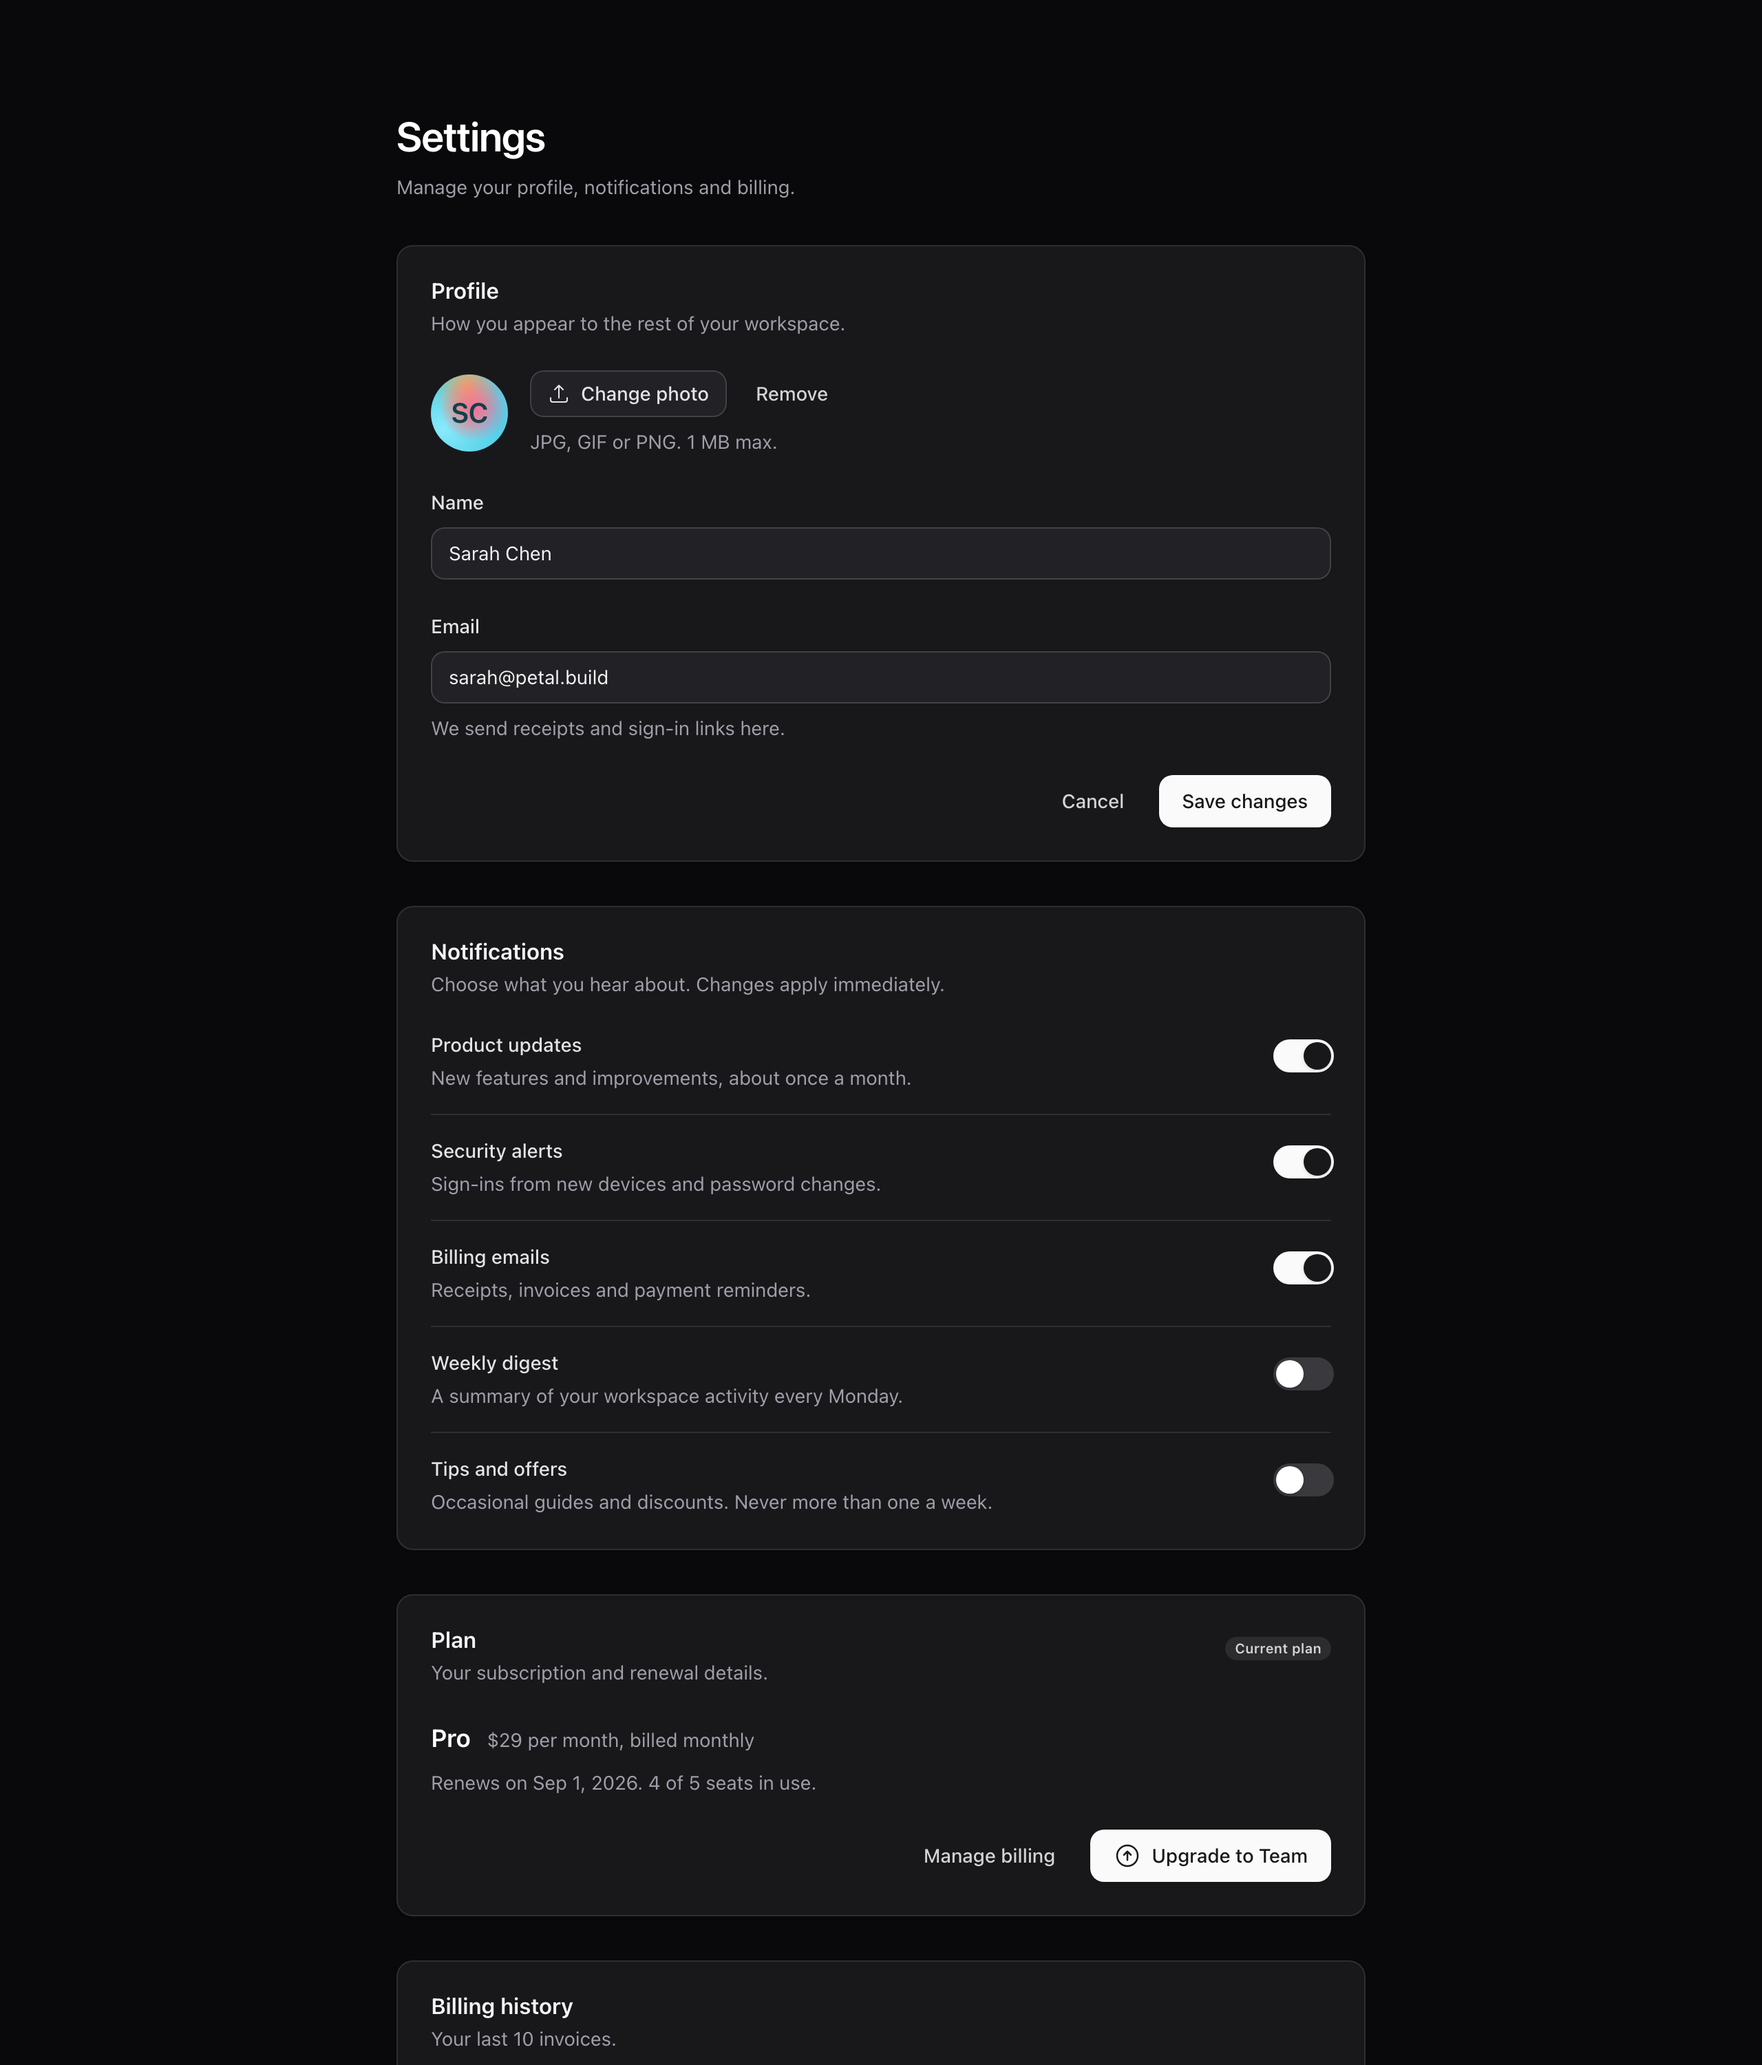
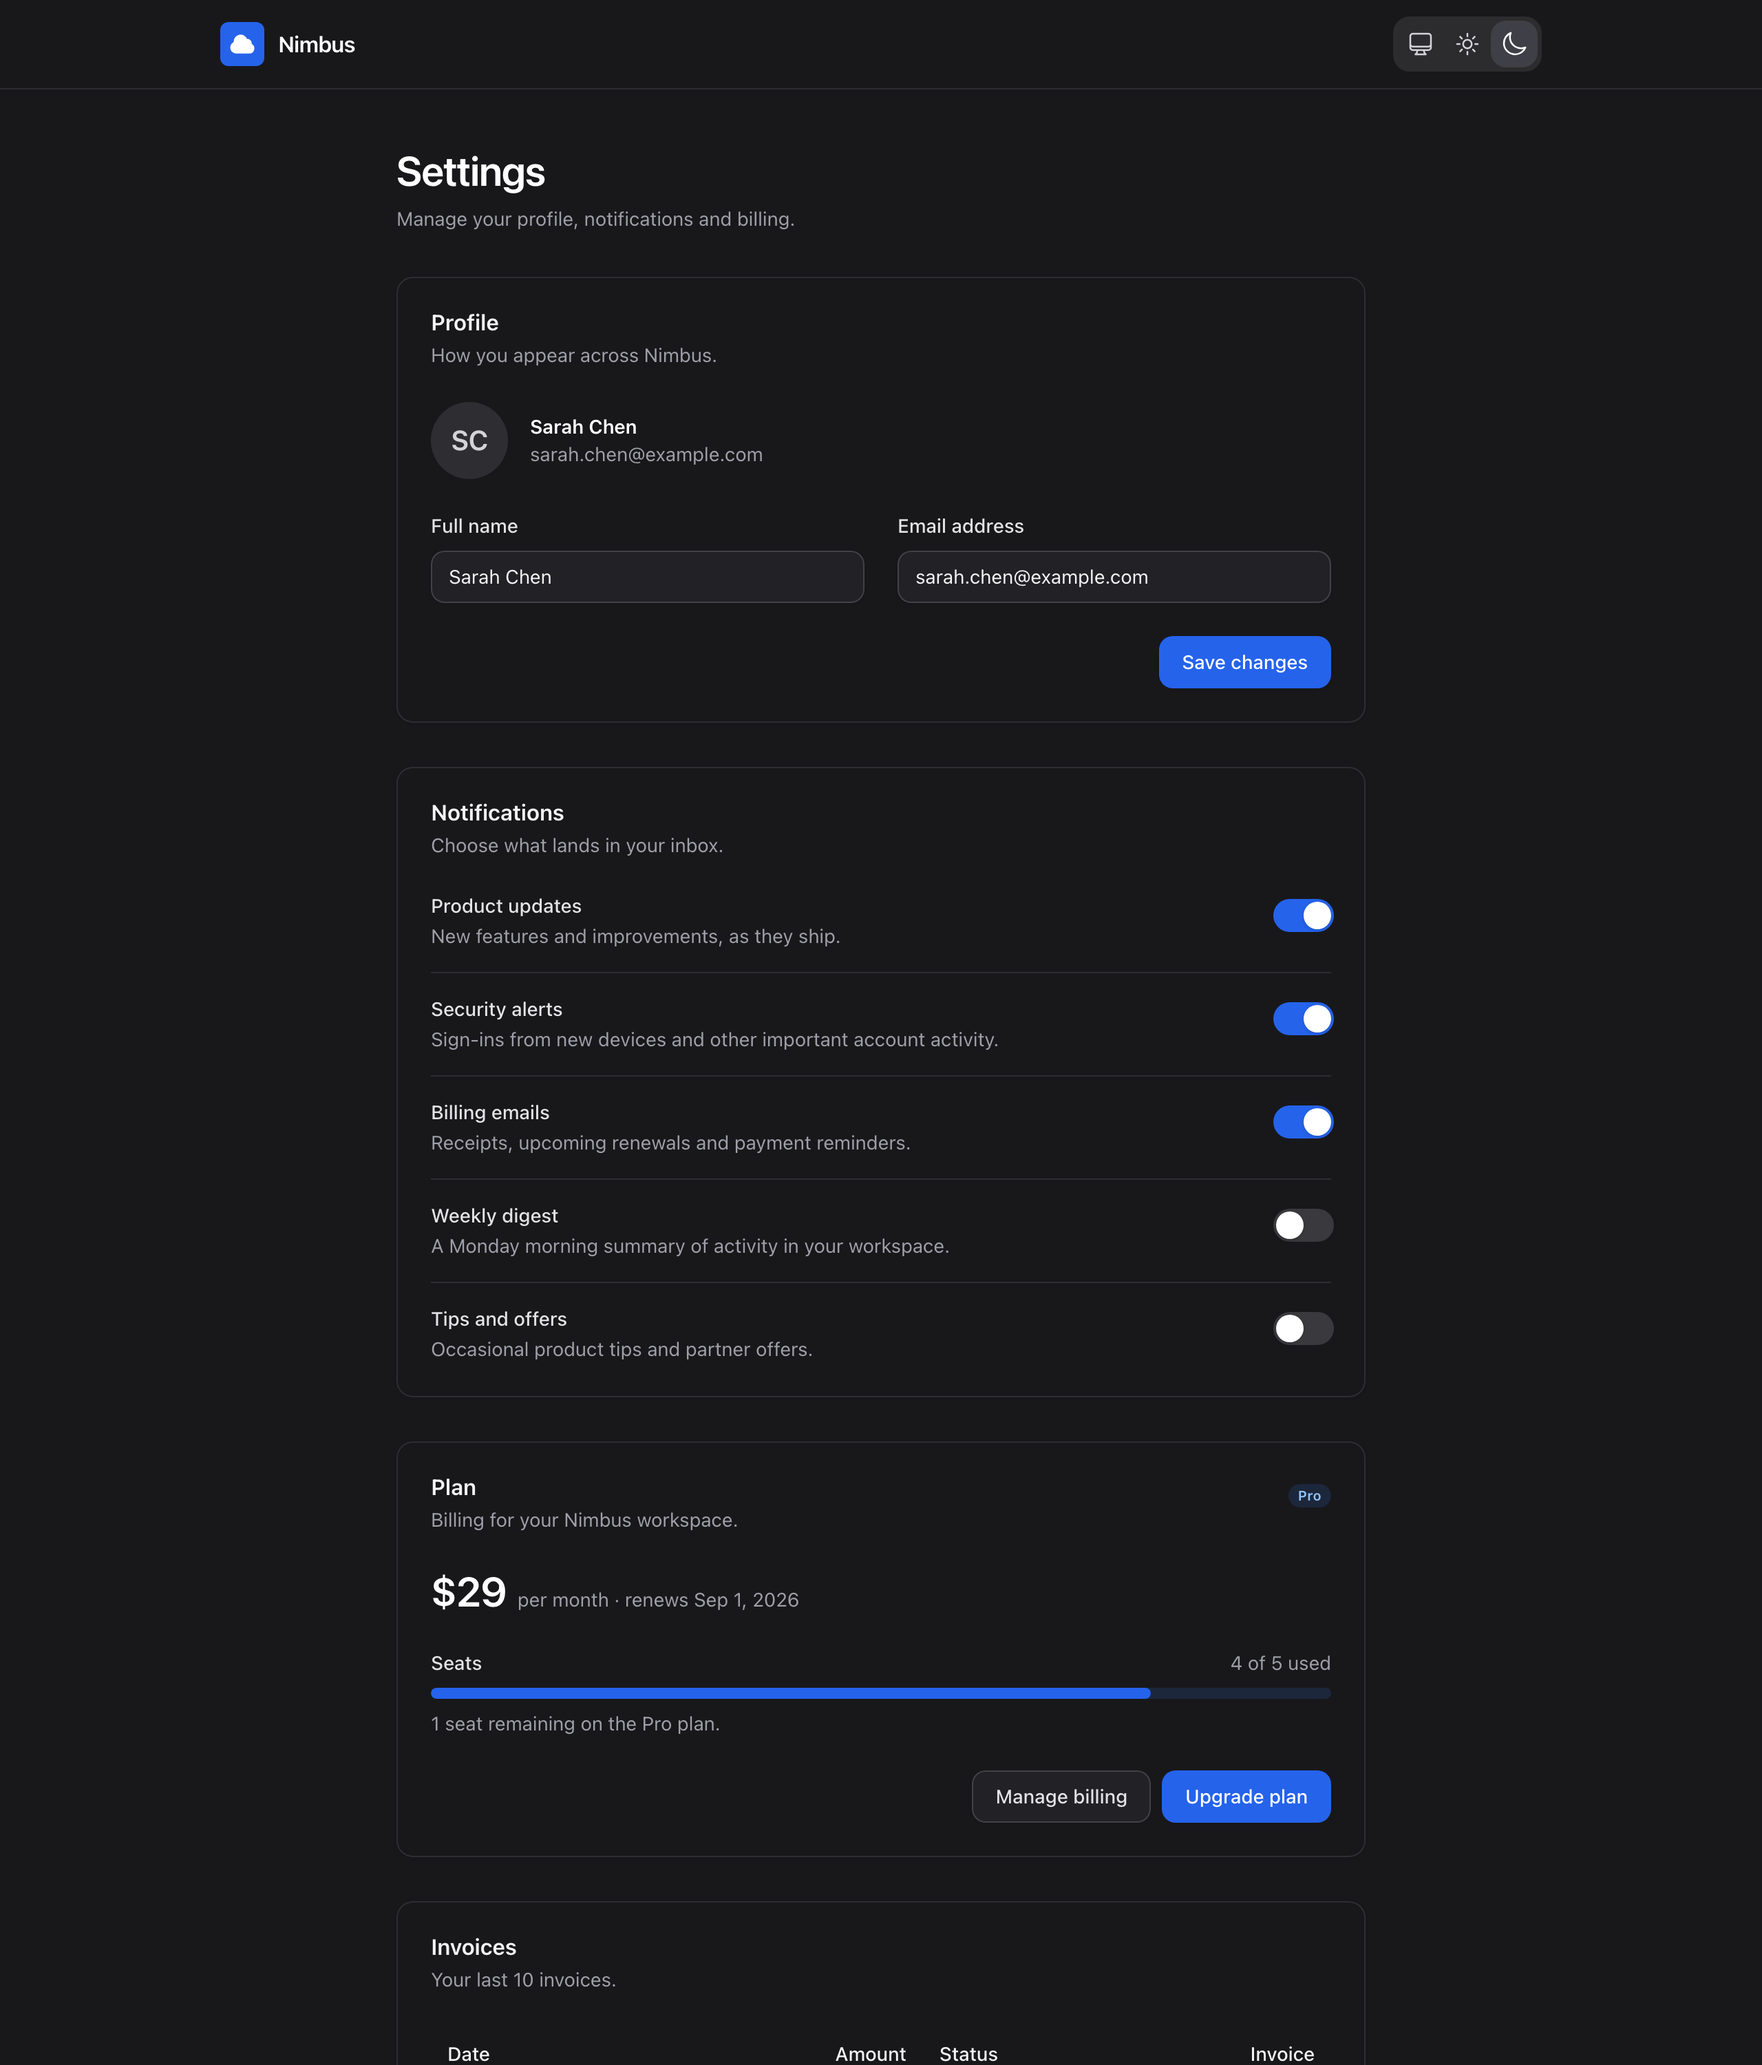
feat: cold-start pair rev 2 - shell parity, both arms re-run
Rev-2 prompt (documented in skills/eval/demo-script.md) puts the app
shell in the spec for both arms: navbar with product logo, a
System/Light/Dark segmented theme switcher, and a seat-usage progress
bar. Both arms re-ran single-shot on the identical prompt and pinned
seed data; screenshots are untouched outputs. The skill arm reached
for color_scheme_switch variant=segmented and progress value/max
natively. Fixes the rev-1 harness asymmetry where the fresh app
carried phx.new's shell while the skill side rendered shell-less.

Captures now run against localhost (not 127.0.0.1) so LiveView
connects and the scheme switch hook checks its own active segment -
check_origin rejects the 127.0.0.1 origin.

diff --git a/skills/eval/demo-script.md b/skills/eval/demo-script.md
@@ -16,6 +16,16 @@ One fresh Phoenix app with petal_components installed per rules.md, at the same 
 
 **T1 - settings page.** Prompt: `Build a settings LiveView at /settings: profile section (name, email, avatar), notification toggles, and a billing section with a table of the last 10 invoices (date, amount, status, PDF link) plus a plan card with an upgrade button. Support light and dark mode.`
 
+### Cold-start pair (flagship marketing pair)
+
+Two arms, not three: **cold** - a fresh `phx.new` 1.8 app, no petal_components, no MCP, no skill - vs **skill** - petal_components installed, schema data available, petal-design skill installed. Same task prompt verbatim, same pinned seed data, one attempt each, no steering. This is the "not in the Petal ecosystem yet" comparison on the playground's /c/agent-skill page.
+
+**T1-cold prompt (rev 2 - 2026-08-28):** `Build a settings LiveView at /settings: app navbar with the product logo on the left and a theme switcher on the right (System / Light / Dark segmented control); profile section (name, email, avatar); notification toggles; and a billing section with a table of the last 10 invoices (date, amount, status, PDF link) plus a plan card showing seat usage (4 of 5 seats) with a usage progress bar and an upgrade button. Support light and dark mode.`
+
+Seed data pinned identically for both arms: product "Nimbus"; user Sarah Chen, sarah.chen@example.com, initials avatar; toggles - Product updates ON, Security alerts ON, Billing emails ON, Weekly digest OFF, Tips and offers OFF; plan Pro, $29/month, renews Sep 1 2026, 4 of 5 seats in use; 10 monthly invoices Nov 2025 through Aug 2026 at $29.00, latest Pending, the rest Paid.
+
+Why rev 2: the first run (2026-08-27) used the plain T1 prompt. The fresh-app side inherited phx.new's shell (navbar + theme toggle) and volunteered a seat bar, while the skill side rendered shell-less inside the harness - an asymmetry of harness, not of output. Rev 2 puts the shell and the seat bar in the spec for both arms instead of decorating either output after the fact.
+
 **T2 - soup conversion.** Prompt: `Convert this template to idiomatic petal_components usage:` followed by this snippet verbatim:
 
 ```heex
